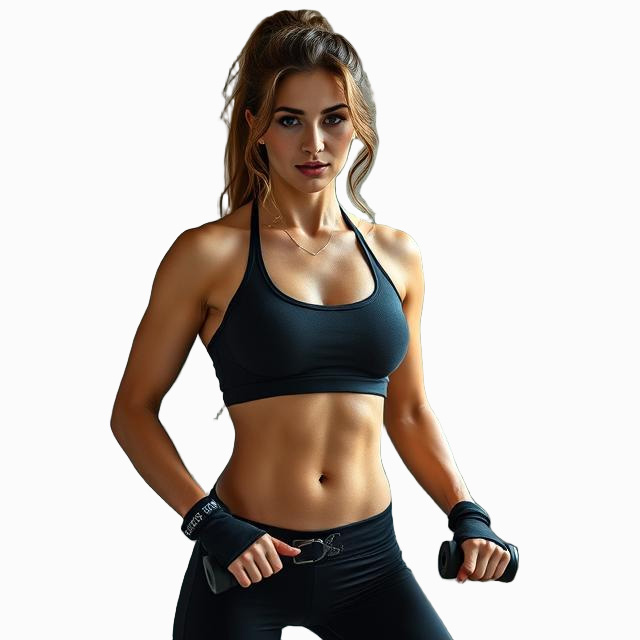
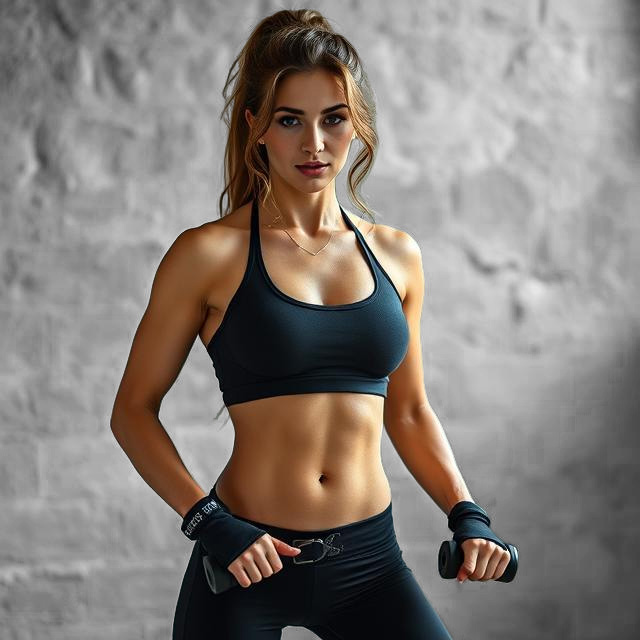
optimized Largest Contentful Paint element

diff --git a/src/pages/Home.jsx b/src/pages/Home.jsx
@@ -12,9 +12,9 @@ const Home = () => {
   return (
     <ContainerMain >
       <section className="relative rounded-lg" >
-        <div className=" flex justify-center flex-col overflow-auto scroll-smooth bg-fixed bg-no-repeat bg-top h-screen mt-[-100px] md:mt-[-20px]"
+        <div className=" flex justify-center flex-col bg-fixed bg-no-repeat bg-top h-screen md:mt-[-20px]"
           style={{ backgroundImage: "url('/img/amaruk-hero-smc.png')" }}>
-          <div className='bg-zinc-900/60 p-8 rounded-lg'>
+          <div className='bg-zinc-900/60 p-4 md:p-8 rounded-lg'>
             <p className=" tracking-widest text-5xl md:text-7xl font-bold leading-relaxed  text-center text-white"
               style={{ textShadow: "4px 4px 10px rgba(0, 0, 0, 0.9)" }}>
               CIEPTIS
@@ -23,10 +23,6 @@ const Home = () => {
               style={{ textShadow: "4px 4px 10px rgba(0, 0, 0, 0.9)" }}>
               CENTRO DE ENTRENADORES PERSONALES Y TERAPIAS INTEGRALES DE LA SALUD
             </h2>
-            {/* <h3 className=" font-bold leading-relaxed tracking-wide text-center text-white"
-              style={{ textShadow: "4px 4px 10px rgba(0, 0, 0, 0.9)" }}>
-              CENTRO INTERNACIONAL DE ENTRENADORES PERSONALES Y TERAPIAS INTEGRALES DE LA SALUD
-            </h3> */}
             <p className="text-xl md:text-2xl mt-4 text-center text-white" style={{ textShadow: "3px 3px 8px rgba(0, 0, 0, 0.9)" }}>
               La motivación es lo que te hace empezar. El hábito es lo que mantiene el progreso.
             </p>

diff --git a/src/components/ContainerMain.jsx b/src/components/ContainerMain.jsx
@@ -1,11 +1,24 @@
 /* eslint-disable react/prop-types */
 import { theme } from "../helpers/theme"
+import { useState, useEffect } from "react";
 
 const ContainerMain = ({ children }) => {
+  const [bgLoaded, setBgLoaded] = useState(false);
+
+  useEffect(() => {
+    const img = new Image();
+    img.src = "/img/grunge-wall-texture.jpg";
+    img.onload = () => setBgLoaded(true);
+  }, []);
+
   return (
-    <div className={`${theme.background} px-2 md:px-8 min-h-screen flex justify-center flex-col overflow-auto scroll-smooth bg-fixed bg-cover gap-y-4 bg-repeat container m-auto pb-8`} style={{ backgroundImage: "url('/img/grunge-wall-texture.jpg')" }}>
+    <div className={`${theme.background} px-2 md:px-8 min-h-screen flex justify-center flex-col overflow-auto scroll-smooth bg-fixed bg-contain gap-y-4 bg-repeat container m-auto pb-8`}
+      style={bgLoaded ? {
+        backgroundImage: "url('/img/grunge-wall-texture.jpg')"
+      } : {}}>
       <div className="h-18 md:h-24 "></div>
-      {children}</div>
+      {children}
+    </div >
   )
 }
 

diff --git a/index.html b/index.html
@@ -4,6 +4,7 @@
 <head>
   <meta charset="UTF-8" />
   <link rel="shortcut icon" href="/favicon.ico" type="image/x-icon">
+  <link rel="preload" href="/img/grunge-wall-texture.jpg" as="image" />
   <meta name="viewport" content="width=device-width, initial-scale=1, maximum-scale=1, user-scalable=no">
   <meta property="og:image" content="https://entrenador-personal.netlify.app/img/og-logo-title.png">
   <meta property="og:image:width" content="1200">
